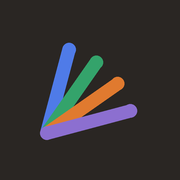
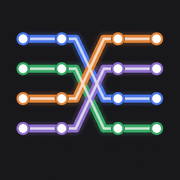
Renamed to timeline

Changed region(s): [[0.0833, 0.1667, 0.9167, 0.7778]]

diff --git a/index.html b/index.html
@@ -3,7 +3,7 @@
 <head>
 <meta charset="utf-8">
 <meta name="viewport" content="width=device-width, initial-scale=1, viewport-fit=cover">
-<title>Ray</title>
+<title>Timeline</title>
 <style>
 :root{--bg:#f6f5f1;--card:#fff;--tx:#1d1d1b;--mut:#6b6a65;--bd:#e3e1da;--ac:#2f5fd0;--red:#c0392b;--amb:#b7791f;--grn:#2f8f5b;color-scheme:light;box-sizing:border-box;padding-top:env(safe-area-inset-top,0px);padding-bottom:env(safe-area-inset-bottom,0px)}
 @media (prefers-color-scheme:dark){:root:not([data-theme="light"]){--bg:#171716;--card:#222220;--tx:#eeede8;--mut:#9b9a93;--bd:#34332f;--ac:#7ba0ff;--red:#ff7b6b;--amb:#f0b64d;--grn:#5fcf94;color-scheme:dark}}
@@ -180,12 +180,12 @@ h3{font:italic 400 16px Georgia,serif;text-transform:none;letter-spacing:0;color
 .dz.dzt{outline:1px dashed rgba(255,255,255,.4);outline-offset:3px}
 .sn span.sel{outline:1px dashed #fff;outline-offset:3px}
 </style>
-<link rel="manifest" href="manifest.webmanifest"><meta name="theme-color" content="#f4efe3"><link rel="apple-touch-icon" href="icon-180.png"><meta name="apple-mobile-web-app-capable" content="yes"><meta name="mobile-web-app-capable" content="yes"><meta name="apple-mobile-web-app-title" content="Ray">
+<link rel="manifest" href="manifest.webmanifest"><meta name="theme-color" content="#f4efe3"><link rel="apple-touch-icon" href="icon-180.png"><meta name="apple-mobile-web-app-capable" content="yes"><meta name="mobile-web-app-capable" content="yes"><meta name="apple-mobile-web-app-title" content="Timeline">
 </head>
 <body>
 <svg width="0" height="0" style="position:absolute" aria-hidden="true"><defs><filter id="chalk" x="-5%" y="-5%" width="110%" height="110%"><feTurbulence type="fractalNoise" baseFrequency="0.8" numOctaves="3" seed="4" result="n"/><feDisplacementMap in="SourceGraphic" in2="n" scale="1.8" xChannelSelector="R" yChannelSelector="G" result="d"/><feColorMatrix in="n" type="matrix" values="0 0 0 0 1 0 0 0 0 1 0 0 0 0 1 0 0 0 -2.4 1.85" result="sp"/><feComposite in="d" in2="sp" operator="in"/></filter></defs></svg>
 <main>
-<div class="hd"><svg width="40" height="40" viewBox="0 0 32 32" fill="none" stroke-linecap="round" stroke-width="3.2"><path d="M6 26L11.2 6.7" stroke="#4f7be8"/><path d="M6 26L17.5 9.6" stroke="#34a36b"/><path d="M6 26L22.4 14.5" stroke="#e07a2f"/><path d="M6 26L25.3 20.8" stroke="#8c6fd0"/></svg><div><h1>Ray</h1><div class="hi" id="hello"></div></div></div>
+<div class="hd"><svg width="40" height="40" viewBox="0 0 32 32" fill="none" stroke-linecap="round" stroke-linejoin="round"><g stroke-width="2.6"><path d="M4 7H11L21 21H28" stroke="#4f7be8"/><path d="M4 13H11L21 25H28" stroke="#34a36b"/><path d="M4 19H11L21 7H28" stroke="#e07a2f"/><path d="M4 25H11L21 13H28" stroke="#8c6fd0"/></g><g fill="#fff" stroke-width="1.5"><circle cx="4" cy="7" r="2" stroke="#4f7be8"/><circle cx="11" cy="7" r="2" stroke="#4f7be8"/><circle cx="21" cy="21" r="2" stroke="#4f7be8"/><circle cx="28" cy="21" r="2" stroke="#4f7be8"/><circle cx="4" cy="13" r="2" stroke="#34a36b"/><circle cx="11" cy="13" r="2" stroke="#34a36b"/><circle cx="21" cy="25" r="2" stroke="#34a36b"/><circle cx="28" cy="25" r="2" stroke="#34a36b"/><circle cx="4" cy="19" r="2" stroke="#e07a2f"/><circle cx="11" cy="19" r="2" stroke="#e07a2f"/><circle cx="21" cy="7" r="2" stroke="#e07a2f"/><circle cx="28" cy="7" r="2" stroke="#e07a2f"/><circle cx="4" cy="25" r="2" stroke="#8c6fd0"/><circle cx="11" cy="25" r="2" stroke="#8c6fd0"/><circle cx="21" cy="13" r="2" stroke="#8c6fd0"/><circle cx="28" cy="13" r="2" stroke="#8c6fd0"/></g></svg><div><h1>Timeline</h1><div class="hi" id="hello"></div></div></div>
 <div class="tabs"><button data-tab="list" class="on">List</button><button data-tab="tl">Timeline</button><button data-tab="bd">Board</button></div>
 <div class="filters" id="filters"></div>
 <div id="now"></div>
@@ -568,15 +568,15 @@ document.addEventListener('click',e=>{
   const b=document.createElement('button');b.className='chip';b.textContent='+ '+l;
   b.onclick=()=>{const i=$('#in');i.value=l+' #deadlines'+(/\d/.test(l)?' ogni anno':'');i.focus();i.dispatchEvent(new Event('input'))};$('#chips').appendChild(b);
 });
-$('#bk').onclick=()=>{const a=document.createElement('a');a.href=URL.createObjectURL(new Blob([JSON.stringify({app:'ray',v:1,exported:new Date().toISOString(),tasks,board:BD})],{type:'application/json'}));a.download='ray-backup-'+today()+'.json';document.body.appendChild(a);a.click();a.remove();$('#sync').textContent='Backup scaricato'};
+$('#bk').onclick=()=>{const a=document.createElement('a');a.href=URL.createObjectURL(new Blob([JSON.stringify({app:'timeline',v:1,exported:new Date().toISOString(),tasks,board:BD})],{type:'application/json'}));a.download='timeline-backup-'+today()+'.json';document.body.appendChild(a);a.click();a.remove();$('#sync').textContent='Backup scaricato'};
 $('#rs').onclick=()=>$('#rf').click();
-$('#rf').onchange=e=>{const f=e.target.files[0];if(!f)return;const r=new FileReader();r.onload=()=>{try{const d=JSON.parse(r.result);if(d.app!=='ray'||!Array.isArray(d.tasks))throw 0;const b=d.board||{};
+$('#rf').onchange=e=>{const f=e.target.files[0];if(!f)return;const r=new FileReader();r.onload=()=>{try{const d=JSON.parse(r.result);if((d.app!=='timeline'&&d.app!=='ray')||!Array.isArray(d.tasks))throw 0;const b=d.board||{};
   if(!confirm('Sostituire i dati attuali con il backup ('+d.tasks.length+' attività, '+(Array.isArray(b.ideas)?b.ideas.length:0)+' idee)?'))return;
   tasks=d.tasks;BD={projects:Array.isArray(b.projects)?b.projects:[],ideas:Array.isArray(b.ideas)?b.ideas:[],links:Array.isArray(b.links)?b.links:[],subs:Array.isArray(b.subs)?b.subs:[]};
   try{localStorage.setItem(BK,JSON.stringify(BD))}catch(x){}save();$('#sync').textContent='Backup ripristinato'}catch(x){alert('File non valido')}};r.readAsText(f);e.target.value=''};
 $('#ics').onclick=async()=>{
   const dl=window.claude?await claude.use('downloads').catch(()=>null):null;
-  try{if(dl){await dl.save({filename:'ray.ics',data:icsText()})}else{const a=document.createElement('a');a.href=URL.createObjectURL(new Blob([icsText()],{type:'text/calendar'}));a.download='ray.ics';document.body.appendChild(a);a.click();a.remove()}}
+  try{if(dl){await dl.save({filename:'timeline.ics',data:icsText()})}else{const a=document.createElement('a');a.href=URL.createObjectURL(new Blob([icsText()],{type:'text/calendar'}));a.download='timeline.ics';document.body.appendChild(a);a.click();a.remove()}}
   catch(e){$('#sync').textContent='Download .ics non disponibile qui: usa il 📅 su ogni attività.'}
 };
 render();

diff --git a/sw.js b/sw.js
@@ -1,4 +1,4 @@
-const C='ray-v13',A=['./','index.html','manifest.webmanifest','kalam.woff2','icon-180.png','icon-192.png','icon-512.png','icon-maskable-192.png','icon-maskable-512.png'];
+const C='timeline-v1',A=['./','index.html','manifest.webmanifest','kalam.woff2','icon-180.png','icon-192.png','icon-512.png','icon-maskable-192.png','icon-maskable-512.png'];
 self.addEventListener('install',e=>e.waitUntil(caches.open(C).then(c=>c.addAll(A)).then(()=>self.skipWaiting())));
 self.addEventListener('activate',e=>e.waitUntil(caches.keys().then(k=>Promise.all(k.filter(x=>x!==C).map(x=>caches.delete(x)))).then(()=>self.clients.claim())));
 self.addEventListener('fetch',e=>{if(e.request.method!=='GET')return;e.respondWith(fetch(e.request).then(r=>{const c=r.clone();caches.open(C).then(x=>x.put(e.request,c));return r}).catch(()=>caches.match(e.request).then(r=>r||caches.match('index.html'))))});
